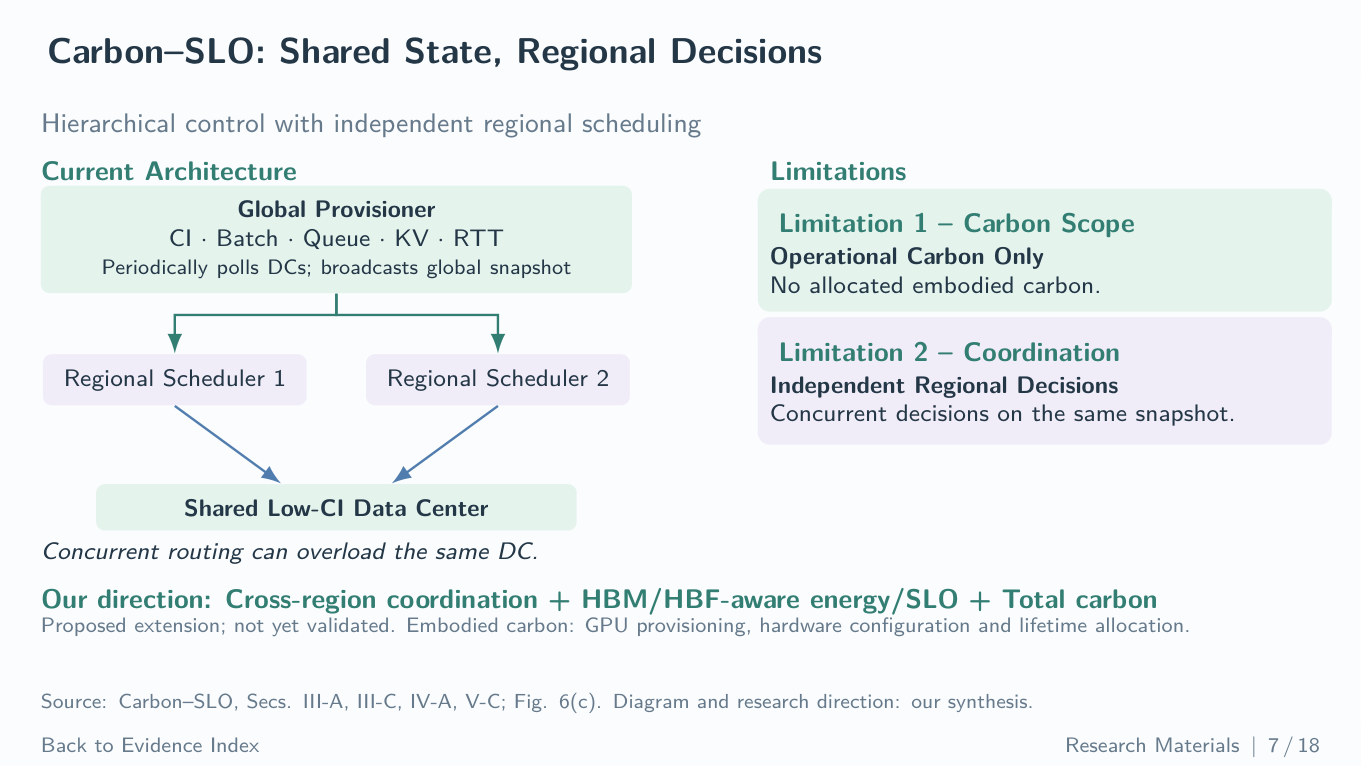
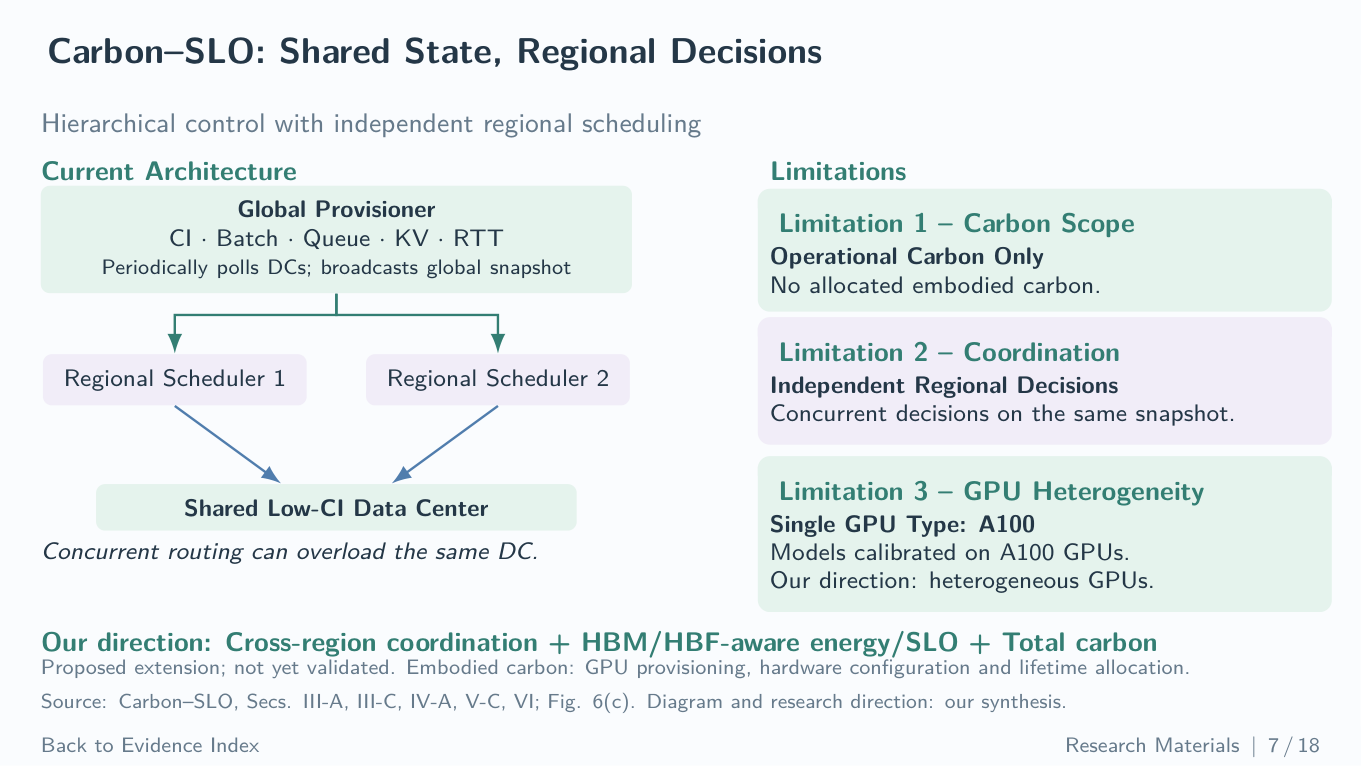
Add GPU heterogeneity limitation to slide 7

Changed region(s): [[0.0309, 0.6305, 0.8949, 0.9308]]

diff --git a/2026-11-18-meeting/2026-11-18-Research-Materials.tex b/2026-11-18-meeting/2026-11-18-Research-Materials.tex
@@ -230,12 +230,14 @@ box/.style={rounded corners=3pt,inner sep=5pt,font=\footnotesize}]
 \compactcard{mintbox}{Limitation 1 -- Carbon Scope}{\textbf{Operational Carbon Only}\\No allocated embodied carbon.}
 \vspace{.03cm}
 \compactcard{lilacbox}{Limitation 2 -- Coordination}{\textbf{Independent Regional Decisions}\\Concurrent decisions on the same snapshot.}
+\vspace{.10cm}
+\compactcard{mintbox}{Limitation 3 -- GPU Heterogeneity}{\textbf{Single GPU Type: A100}\\Models calibrated on A100 GPUs.\\Our direction: heterogeneous GPUs.}
 \end{column}
 \end{columns}
 \vspace{.08cm}
 \takeaway{Our direction: Cross-region coordination + HBM/HBF-aware energy/SLO + Total carbon}
 {\scriptsize\color{Muted}Proposed extension; not yet validated. Embodied carbon: GPU provisioning, hardware configuration and lifetime allocation.\par}
-\source{\href{\carbonurl}{Carbon--SLO, Secs. III-A, III-C, IV-A, V-C; Fig. 6(c)}. Diagram and research direction: our synthesis.}
+\source{\href{\carbonurl}{Carbon--SLO, Secs. III-A, III-C, IV-A, V-C, VI; Fig. 6(c)}. Diagram and research direction: our synthesis.}
 \end{frame}
 
 \begin{frame}[t,label=RELATED]{Related Work: Carbon--SLO and FREESH}

diff --git a/2026-11-18-meeting/scripts/build_research_materials.py b/2026-11-18-meeting/scripts/build_research_materials.py
@@ -89,7 +89,7 @@ def validate(doc):
         'PLACEMENT': ['11,354', '4,543', '4,538', '60%', 'not an equal-hardware comparison'],
         'GEO': ['Global Provisioner', 'Periodically polls DCs', 'broadcasts global snapshot',
                 'Operational Carbon Only', 'No allocated embodied carbon.',
-                'Independent Regional Decisions', 'same snapshot', 'Our direction:', 'not yet validated',
+                'Independent Regional Decisions', 'same snapshot', 'Single GPU Type: A100', 'heterogeneous GPUs', 'Our direction:', 'not yet validated',
                 'GPU provisioning', 'hardware configuration', 'lifetime allocation'],
         'MEMORYSOURCES': ['Micron', 'Lenovo', 'Ma & Patterson', 'Moon', 'MemExplorer',
                           'Son', 'SSD', '100,000', 'device power ratio'],

diff --git a/2026-11-18-meeting/output/qa/validation.md b/2026-11-18-meeting/output/qa/validation.md
@@ -8,8 +8,8 @@
 - PASS: REEL1–4 concise frame bodies match frozen SHA-256 values exactly; authorized titles, frame labels, footer and slide 9 source/supplement hyperlinks normalized; previously authorized REEL copy and caveat removal included in baselines.
 - PASS: protected repository files unchanged during build.
 - Rendered all 18 pages at 3x resolution and a two-column montage.
-- PASS: Slide 7 visually inspected after increasing each diagram layer gap by 0.30 cm; no overlap/clipping. Other 17 pages pixel-identical to prior commit.
-- PASS: 9 regression tests.
+- PASS: Slide 7 third limitation card visually inspected; no clipping or overlap. Other 17 pages pixel-identical to prior commit.
+- PASS: 9 regression tests; A100 calibration and heterogeneous-GPU direction validated.
 - Detailed checksums: `research-materials-build.json`.
 - External URL availability: see `research-materials-url-checks.json`; HTTP availability is separate from PDF annotation validity.
 
